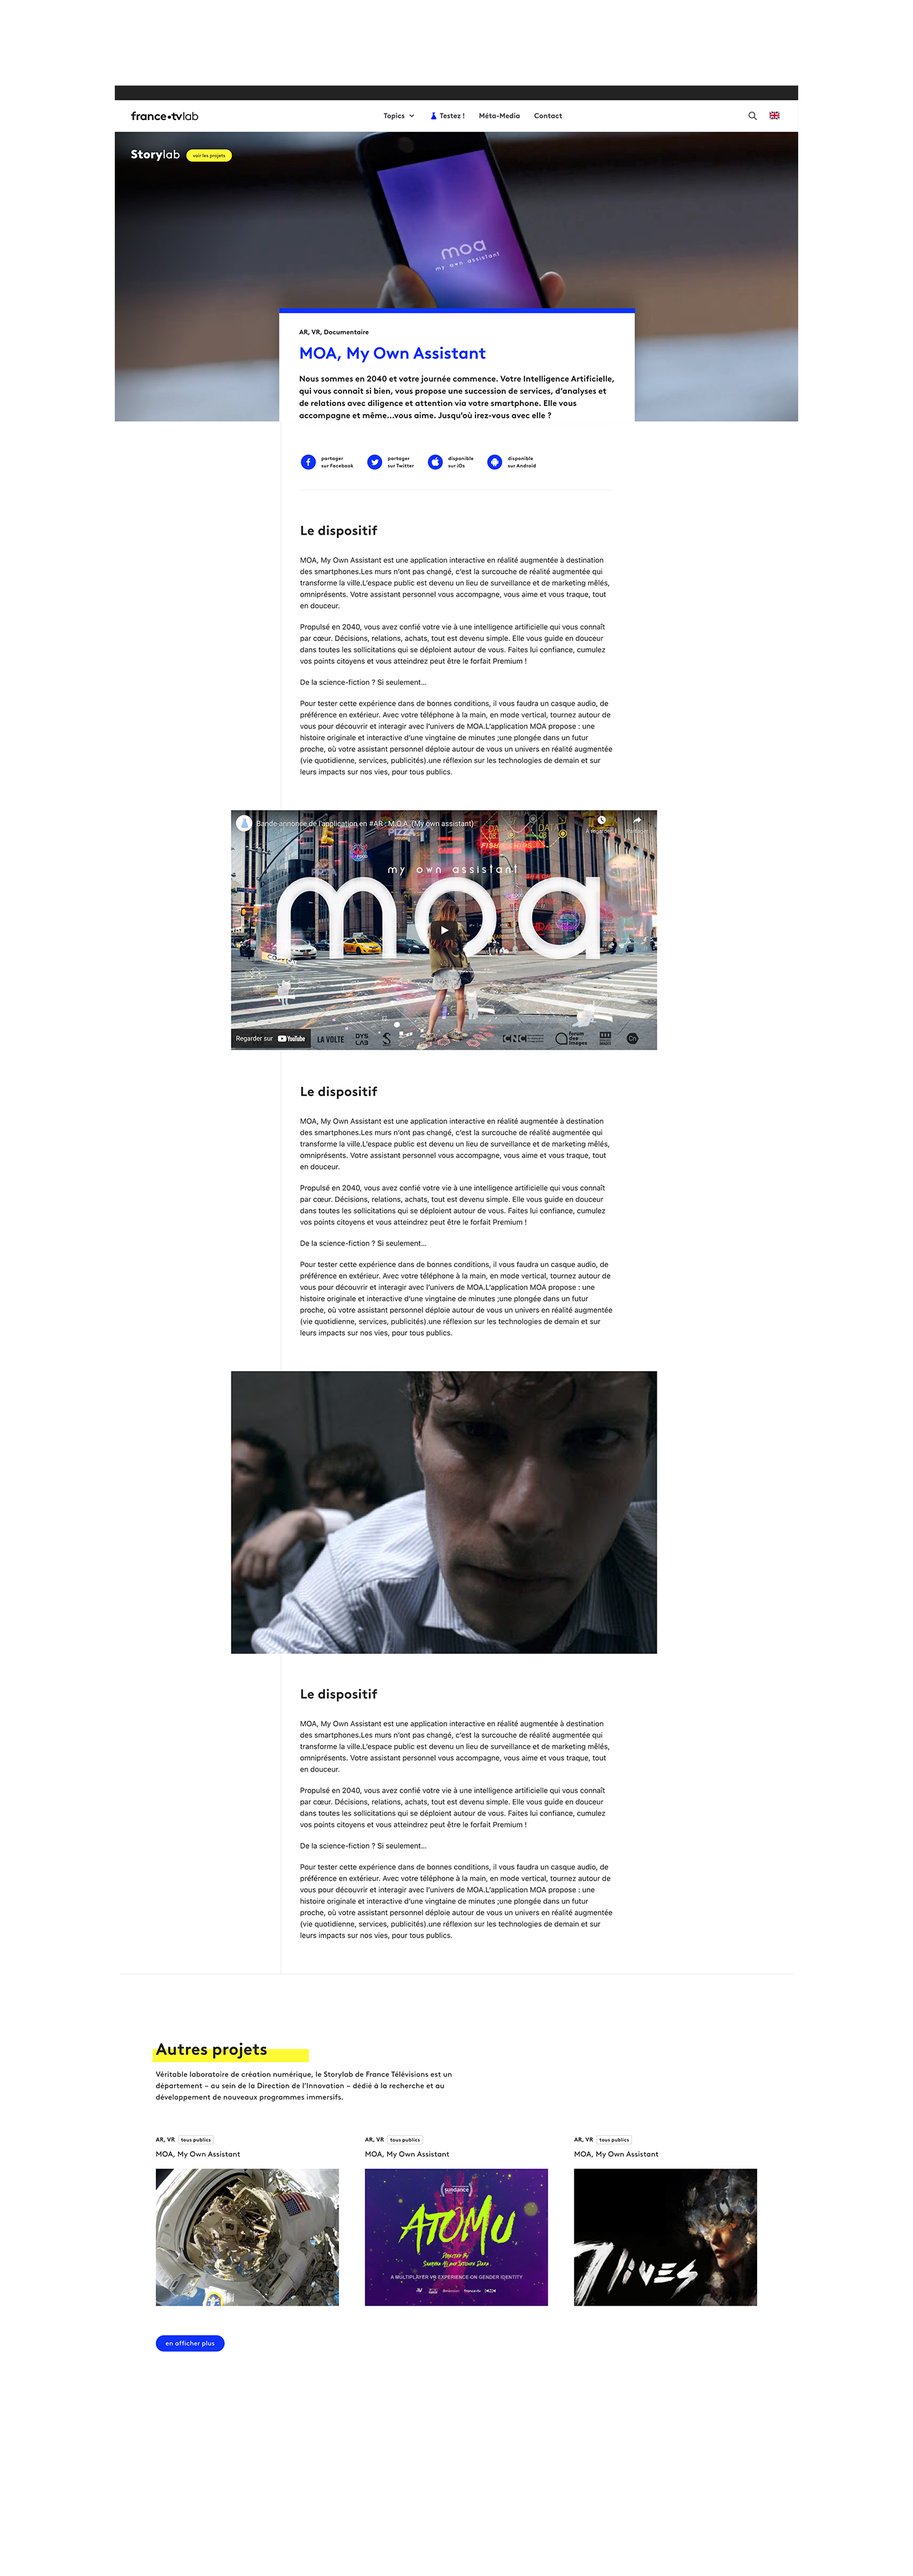
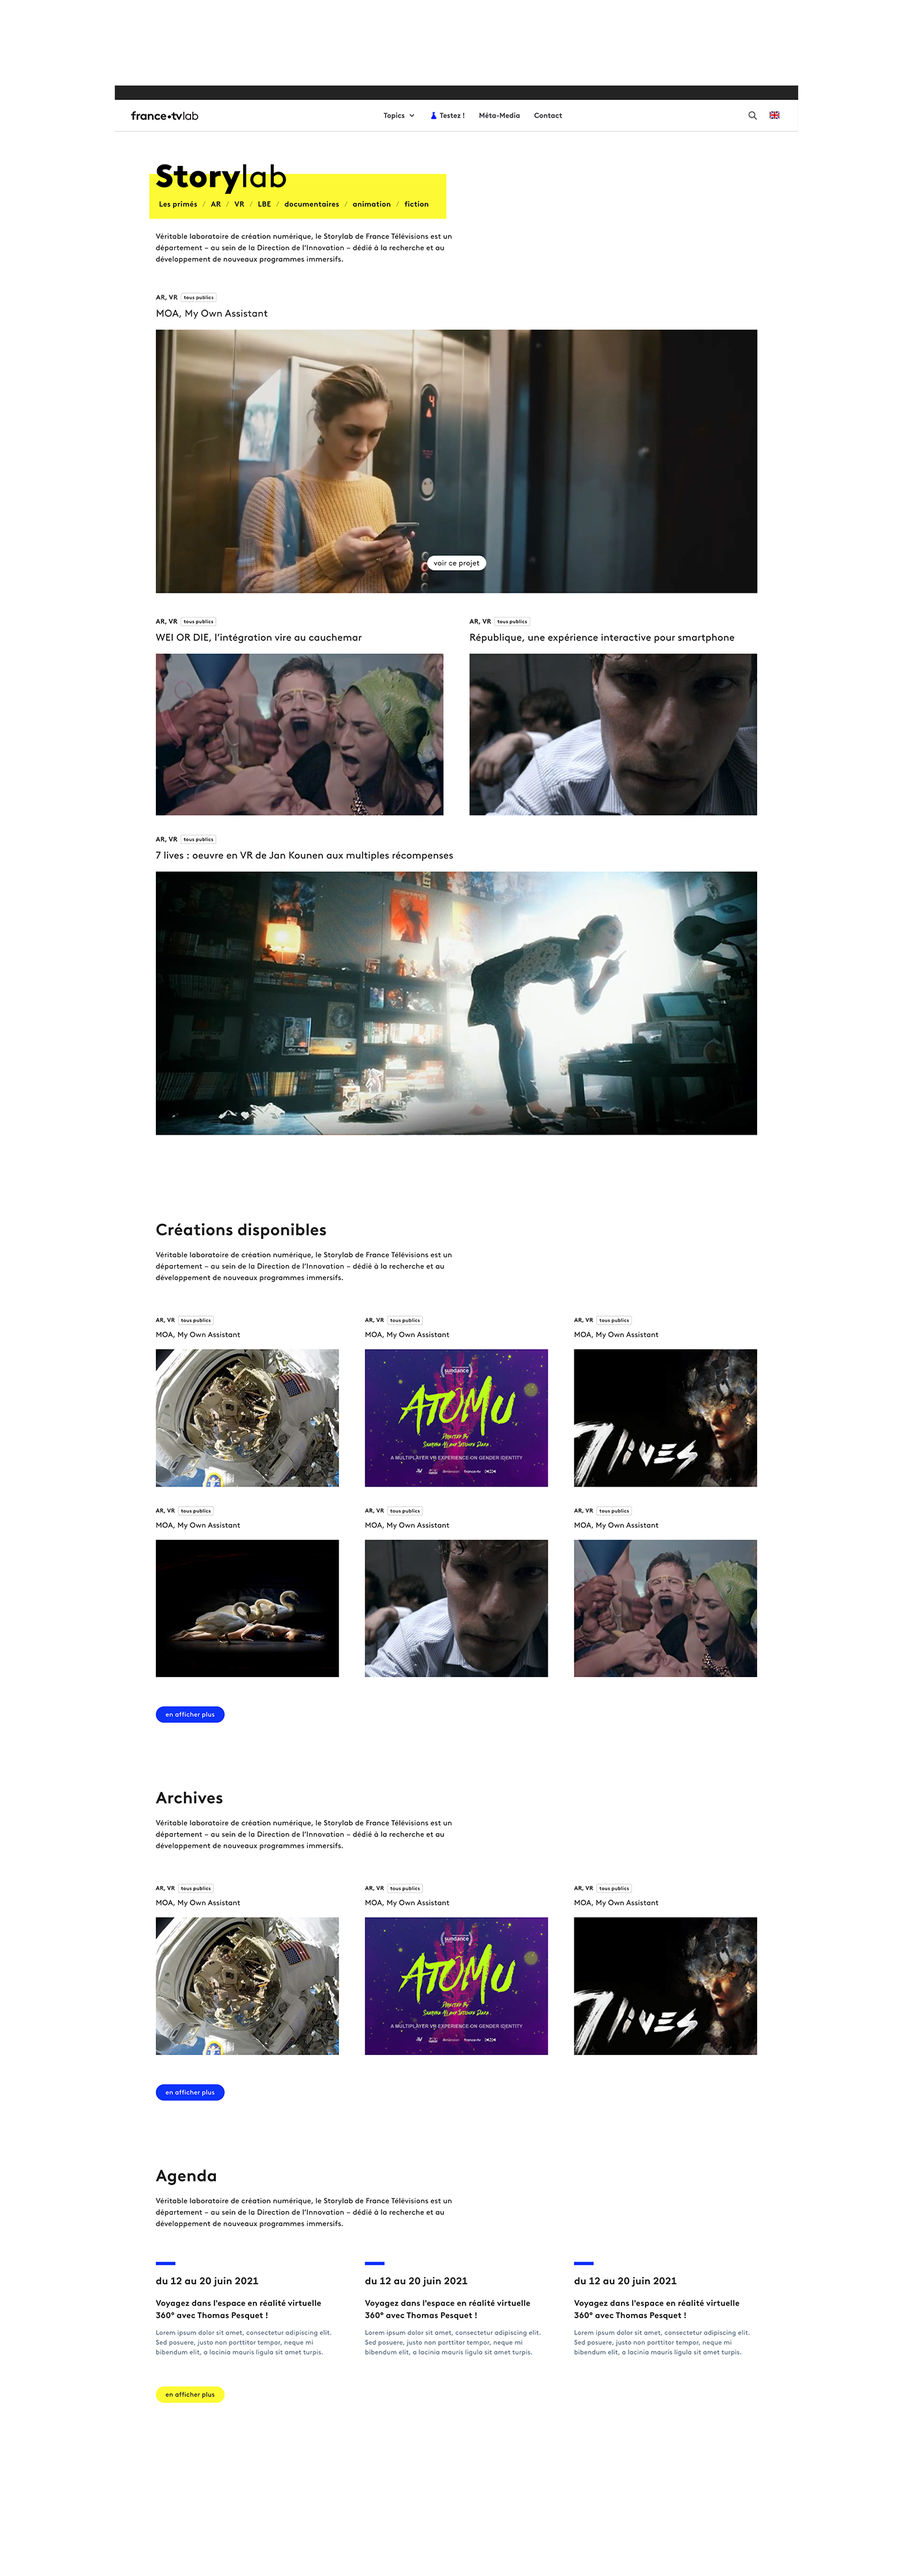
change assets projects

diff --git a/pages/_slug.vue b/pages/_slug.vue
@@ -26,8 +26,8 @@
       ✖
     </nuxt-link>
     <!-- HEADER ROND -->
-    <div class="w-75p flex justify-between items-center mt-20">
-      <div class="flex flex-col py-10">
+    <div class="w-80p flex justify-between items-center mt-20">
+      <div class="flex flex-col py-10 px-5">
         <h1 class="text-6xl font-bold" :style="{ color: proj[0].color }">
           {{ proj[0].name }}
         </h1>
@@ -50,14 +50,14 @@
             >
               ↬
             </div>
-            <div class="flex italic text-blue">
+            <div class="flex italic" :style="{ color: proj[0].color }">
               Aller sur {{ proj[0].name }}
             </div>
           </div></a
         >
       </div>
       <div
-        class="flex items-center bg-blue circle mb-10"
+        class="flex items-center bg-blue circle mb-10 ml-5"
         :style="{ backgroundColor: proj[0].color }"
       >
         <img

diff --git a/nuxt.config.js b/nuxt.config.js
@@ -2,6 +2,10 @@ export default {
   // Disable server-side rendering: https://go.nuxtjs.dev/ssr-mode
   ssr: false,
 
+  server: {
+    port: 6060, // default: 3000
+  },
+
   // Global page headers: https://go.nuxtjs.dev/config-head
   head: {
     title: 'jo-nuxt',

diff --git a/components/CarouselSlider.vue b/components/CarouselSlider.vue
@@ -86,7 +86,7 @@
                 w-auto
                 text-right
                 py-8
-                px-12
+                px-10
                 shadowBlue
                 text-blue
               "
